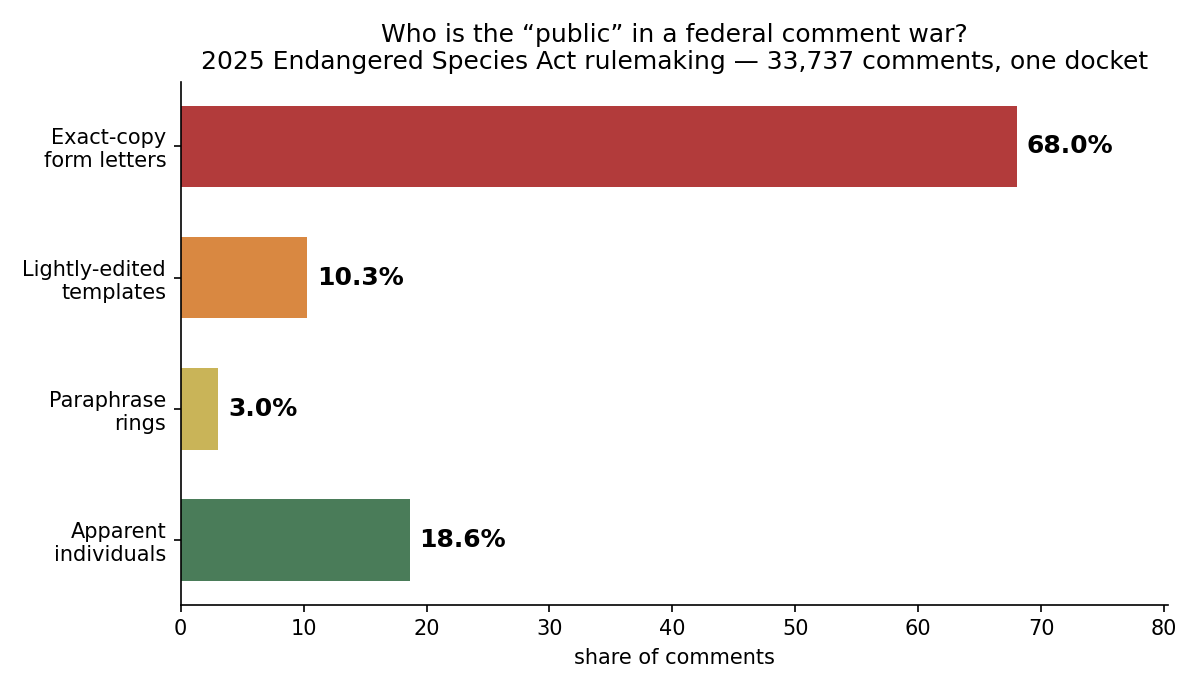
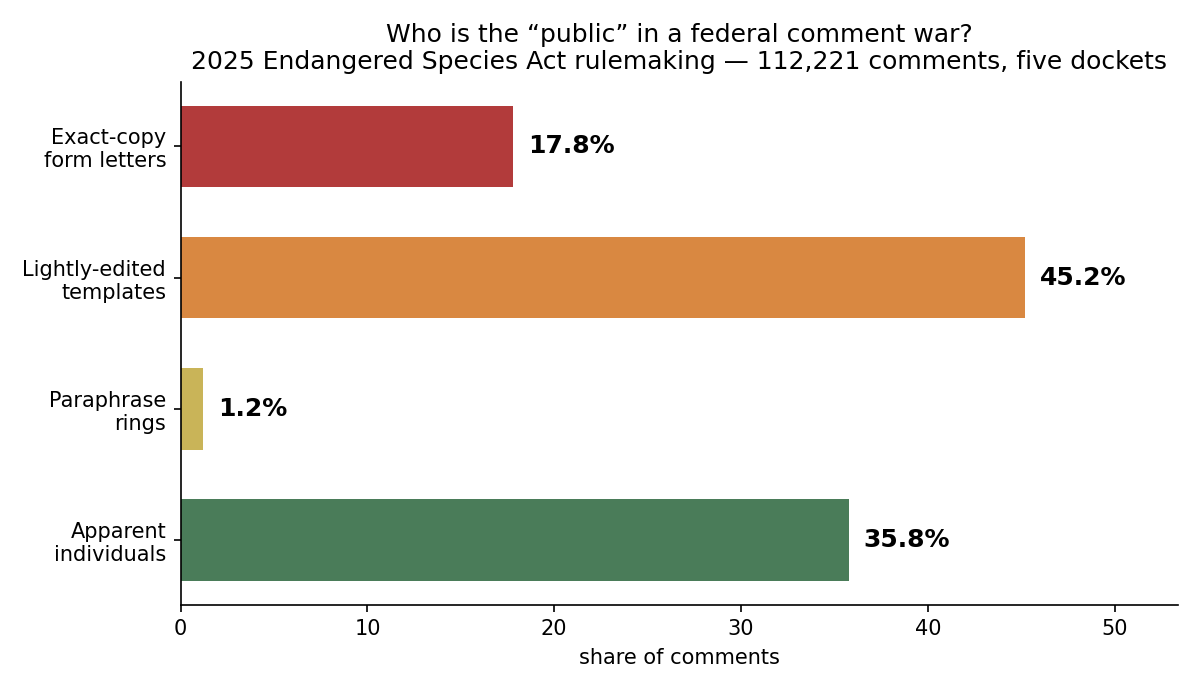
Five-front war map (112,221 comments, disjoint accounting): 64% campaign mail, four-barrel mail cannon, synchronized waves, AI at exact human baseline

diff --git a/war_map.py b/war_map.py
@@ -54,6 +54,24 @@ for d, c in days_sorted:
 uniq_reps = [v[0] for v in byk.values()]
 print(f"\nglobal clustering over {len(uniq_reps)} unique texts...")
 res = analyze([r["text"] for r in uniq_reps], 0.45, verbose=True)
+# guard: dissolve T3 clusters dominated by short texts, and enforce density on big clusters
+import random as _rnd
+from cluster import build_tfidf as _bt, cos as _cos
+def _dense_enough(g, texts, thr=0.45, sample=60):
+    if len(g) <= 10: return True
+    vs, _ = _bt([texts[i] for i in g[:400]])
+    rng = _rnd.Random(1)
+    idx = list(range(len(vs)))
+    sims = []
+    for _i in range(min(sample, len(idx)*(len(idx)-1)//2)):
+        a, b = rng.sample(idx, 2)
+        sims.append(_cos(vs[a], vs[b]))
+    return sum(sims)/len(sims) >= thr
+_texts = [r["text"] for r in uniq_reps]
+res["t3"] = [g for g in res["t3"]
+             if statistics.mean(len(_texts[i].split()) for i in g) >= 30
+             and _dense_enough(g, _texts)]
+print(f"after guards: T3 rings={len(res['t3'])} (members {sum(map(len,res['t3']))})")
 
 def members_of(groups):
     out = []
@@ -67,10 +85,18 @@ def members_of(groups):
     return out
 
 n = len(ALL)
-in_t1 = sum(len(v) for v in byk.values() if len(v) > 1)
 t2m = members_of(res["t2"]); t3m = members_of(res["t3"])
-in_t2 = sum(t for t, _, _ in t2m); in_t3 = sum(t for t, _, _ in t3m)
-organic = n - in_t1 - in_t2 - in_t3
+# DISJOINT accounting: each comment belongs to exactly one population.
+t2_set = {i for g in res["t2"] for i in g}
+t3_set = {i for g in res["t3"] for i in g}
+in_t1 = in_t2 = in_t3 = organic = 0
+for ui, rep in enumerate(uniq_reps):
+    copies = len(byk[exact_key(rep["text"])])
+    if ui in t2_set: in_t2 += copies
+    elif ui in t3_set: in_t3 += copies
+    elif copies > 1: in_t1 += copies
+    else: organic += 1
+assert in_t1 + in_t2 + in_t3 + organic == n, (in_t1, in_t2, in_t3, organic, n)
 print(f"\nWAR TOTALS (n={n}):")
 print(f"  exact-copy letters:   {in_t1:6d} ({in_t1/n*100:.1f}%)")
 print(f"  template families:    {in_t2:6d} ({in_t2/n*100:.1f}%)")

diff --git a/WRITEUP.md b/WRITEUP.md
@@ -1,7 +1,8 @@
 # Who Is Actually Talking When America Comments on Its Laws?
 
-*A forensic dissection of 35,000 public comments on one of 2025's biggest
-environmental fights — and a search for the AI flood everyone expects.*
+*A forensic dissection of 118,284 public comments across the five-front 2025
+Endangered Species Act rulemaking war — and a search for the AI flood
+everyone expects.*
 
 ---
 
@@ -93,6 +94,41 @@ Concretely:
 *below* the human baseline. Even the paraphrase rings score in the human
 range; they look like advocacy-platform "personalize your message" tools, not
 language models.
+
+
+## Finding 3: the five-front war
+
+The "harm definition" docket was one front of a coordinated 2025 offensive —
+five companion dockets revising different pillars of the Endangered Species
+Act. We pulled **all 118,284 comments** across the five and fingerprinted
+every letter globally:
+
+- **1,242 distinct letters hit multiple dockets.** The second-largest letter
+  fired **14,400 copies across four dockets in near-perfectly equal shares**
+  (3,592 / 3,643 / 3,583 / 3,582) — the signature of a mail cannon configured
+  for four targets, not of people choosing where to write.
+- **Synchronized bombardment days:** December 22 alone delivered 15,299
+  comments across four fronts simultaneously; three more such multi-front
+  wave days (Dec 8, 9, 18). The spring front had its own 18,133-comment
+  single-day spike.
+- **War-wide census** (112,221 usable comments, disjoint accounting — every
+  comment counted exactly once): **17.8% exact copies, 45.2% template
+  families, 1.2% paraphrase rings, 35.8% apparent individuals.** Roughly
+  **two of every three comments in the entire war are campaign mail.** (The
+  single-docket table above shows a harsher 4-of-5 ratio; the difference is
+  real — fronts differ — and definitional: globally, exact copies that belong
+  to a template family are counted with their family.)
+- **AI register across the full war: 10.0% — exactly the human baseline.**
+  The strongest-powered version of Finding 1: even in the most contested
+  environmental rulemaking of 2025, the astroturf machinery is human-built.
+
+A methodological note we insist on including: our first war-map run produced
+an impossible total (a negative share) and a fictitious 32,742-member
+"paraphrase ring" — an artifact of short comments chaining on shared topic
+words. Both were caught by internal consistency checks, fixed (disjoint
+accounting; length-and-density guards validated on planted rings), and only
+then published. This is the third wrong number this project's own checks have
+intercepted before publication.
 
 ## What this means
 
